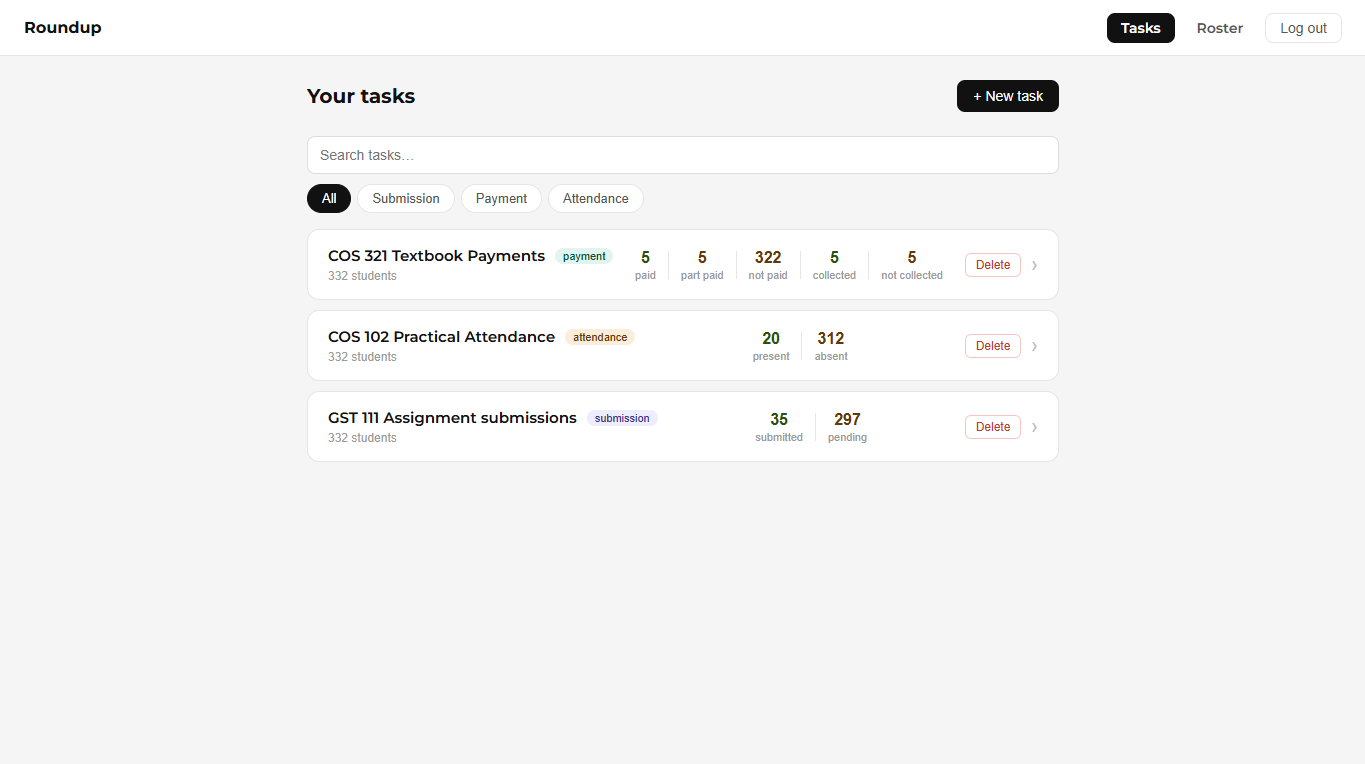
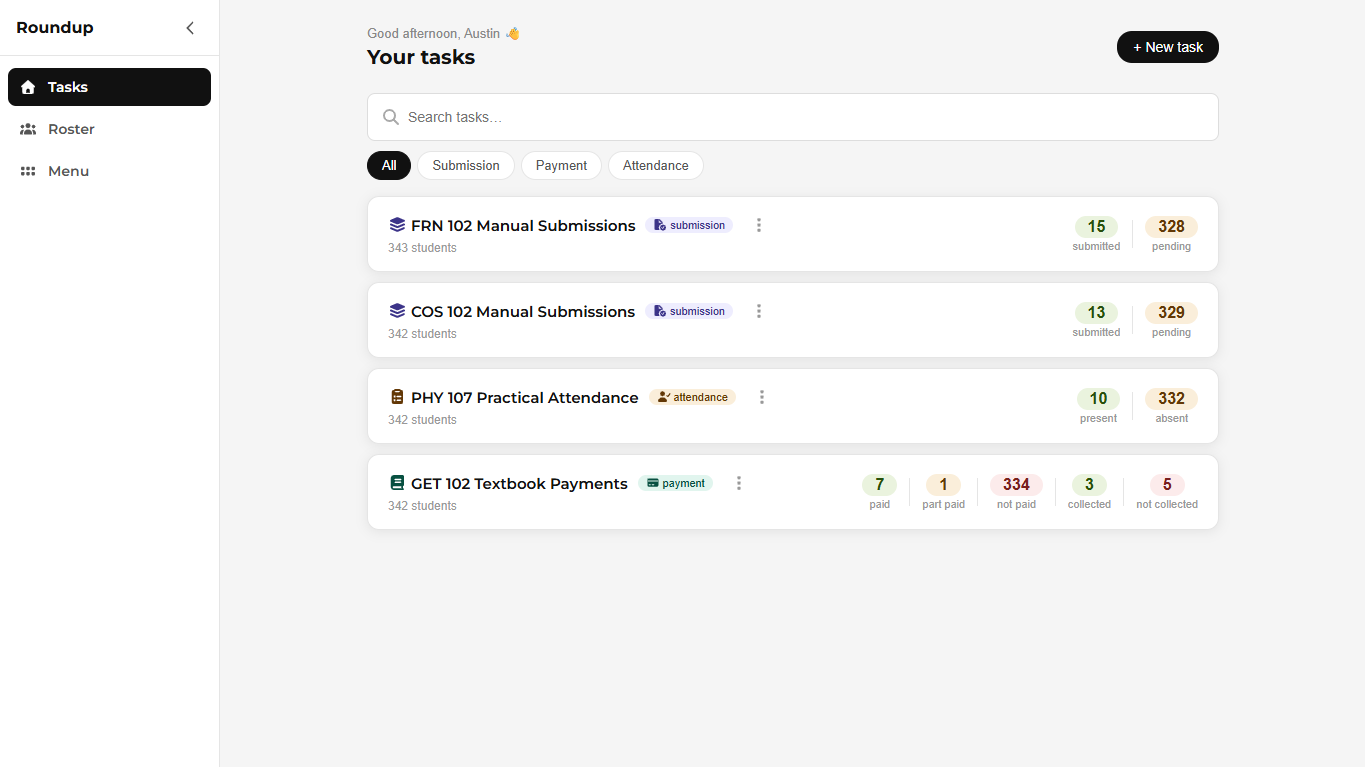
feat: updated projects card

diff --git a/script.js b/script.js
@@ -180,7 +180,7 @@ const projects = [
         techs: 'React + Vite + Supabase + JavaScript',
         imgUrl: './images/roundup-ss.png',
         imgAlt: 'Image of Roundup dashboard',
-        liveLink: 'https://roundup-mu.vercel.app/'
+        liveLink: 'https://getroundup.app'
     },
     {
         title: 'Twig Notes',
